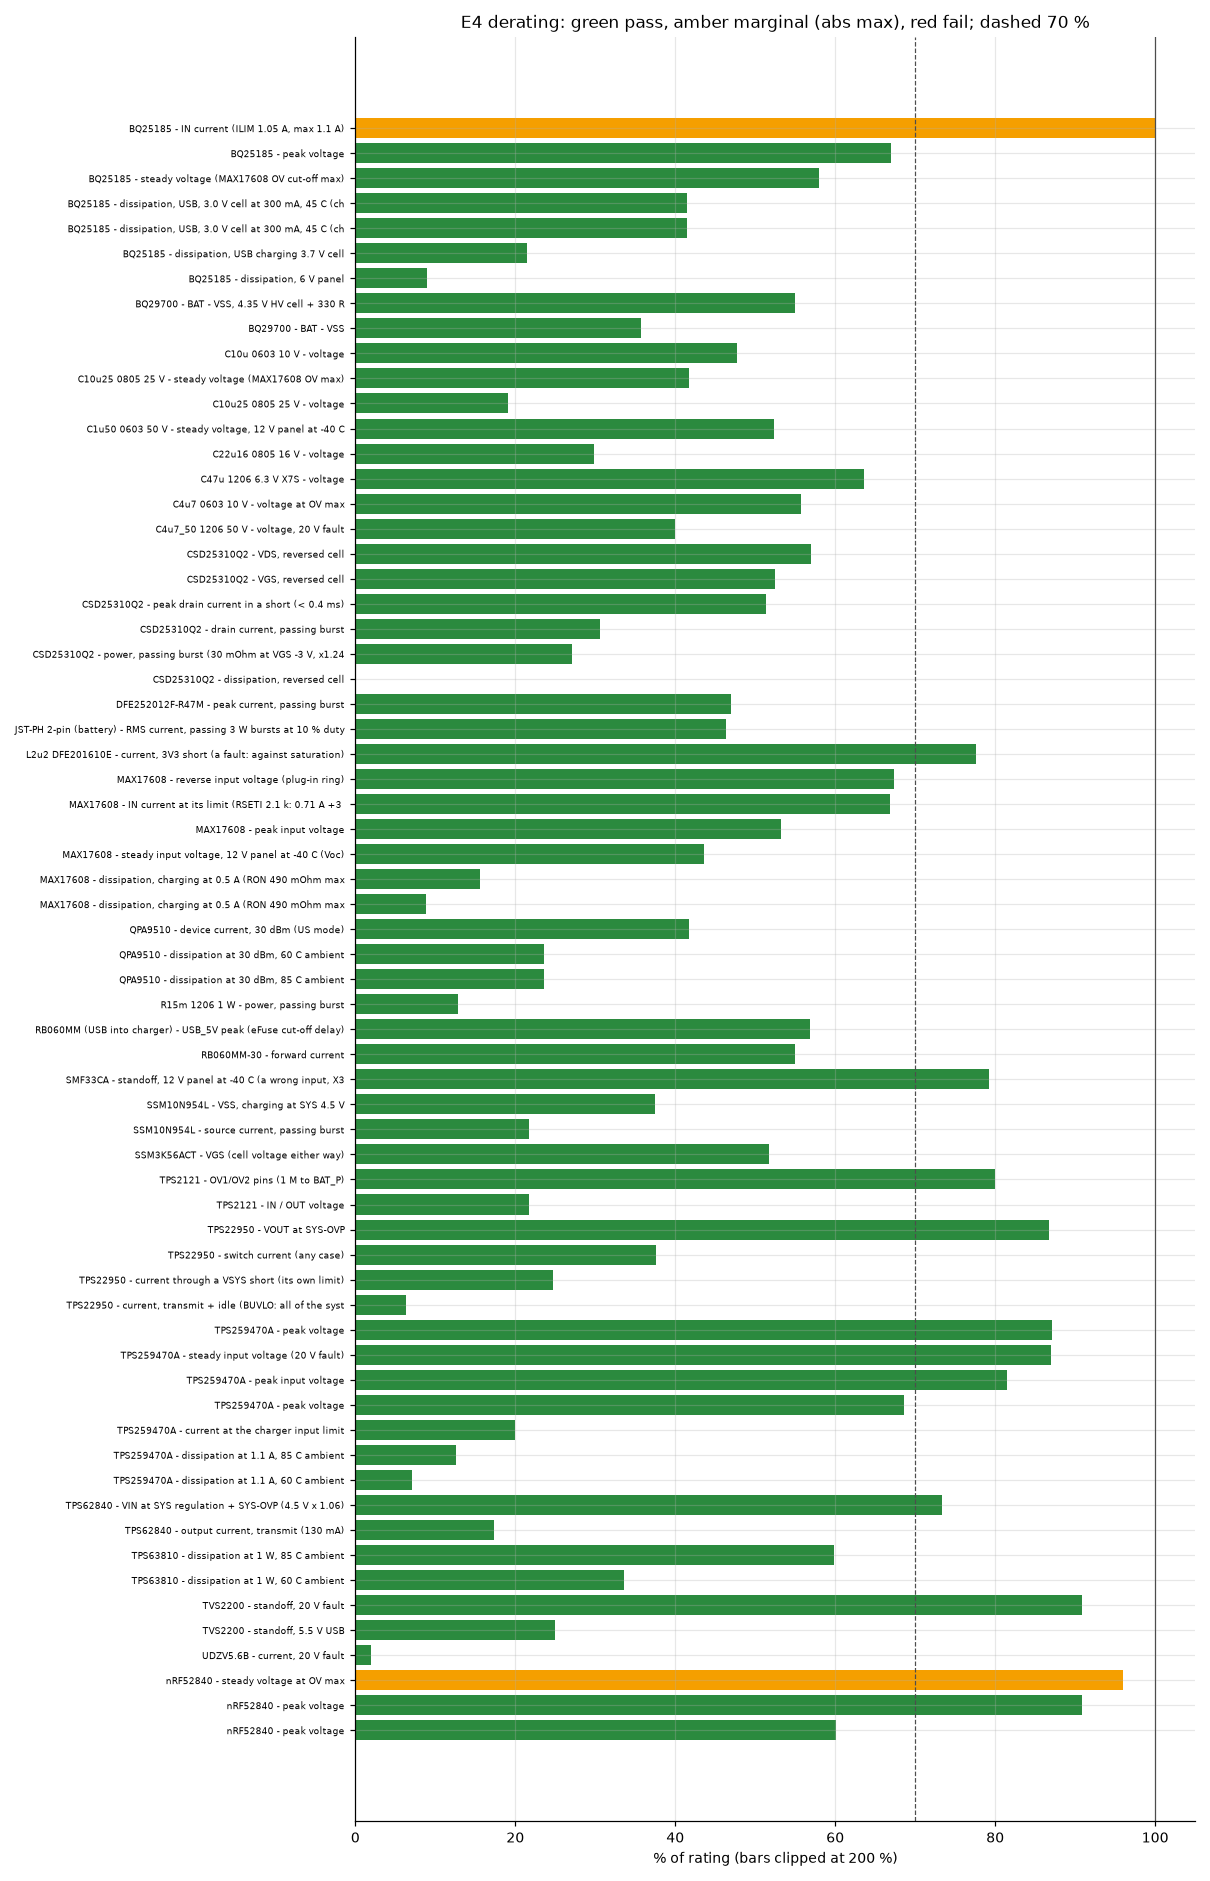
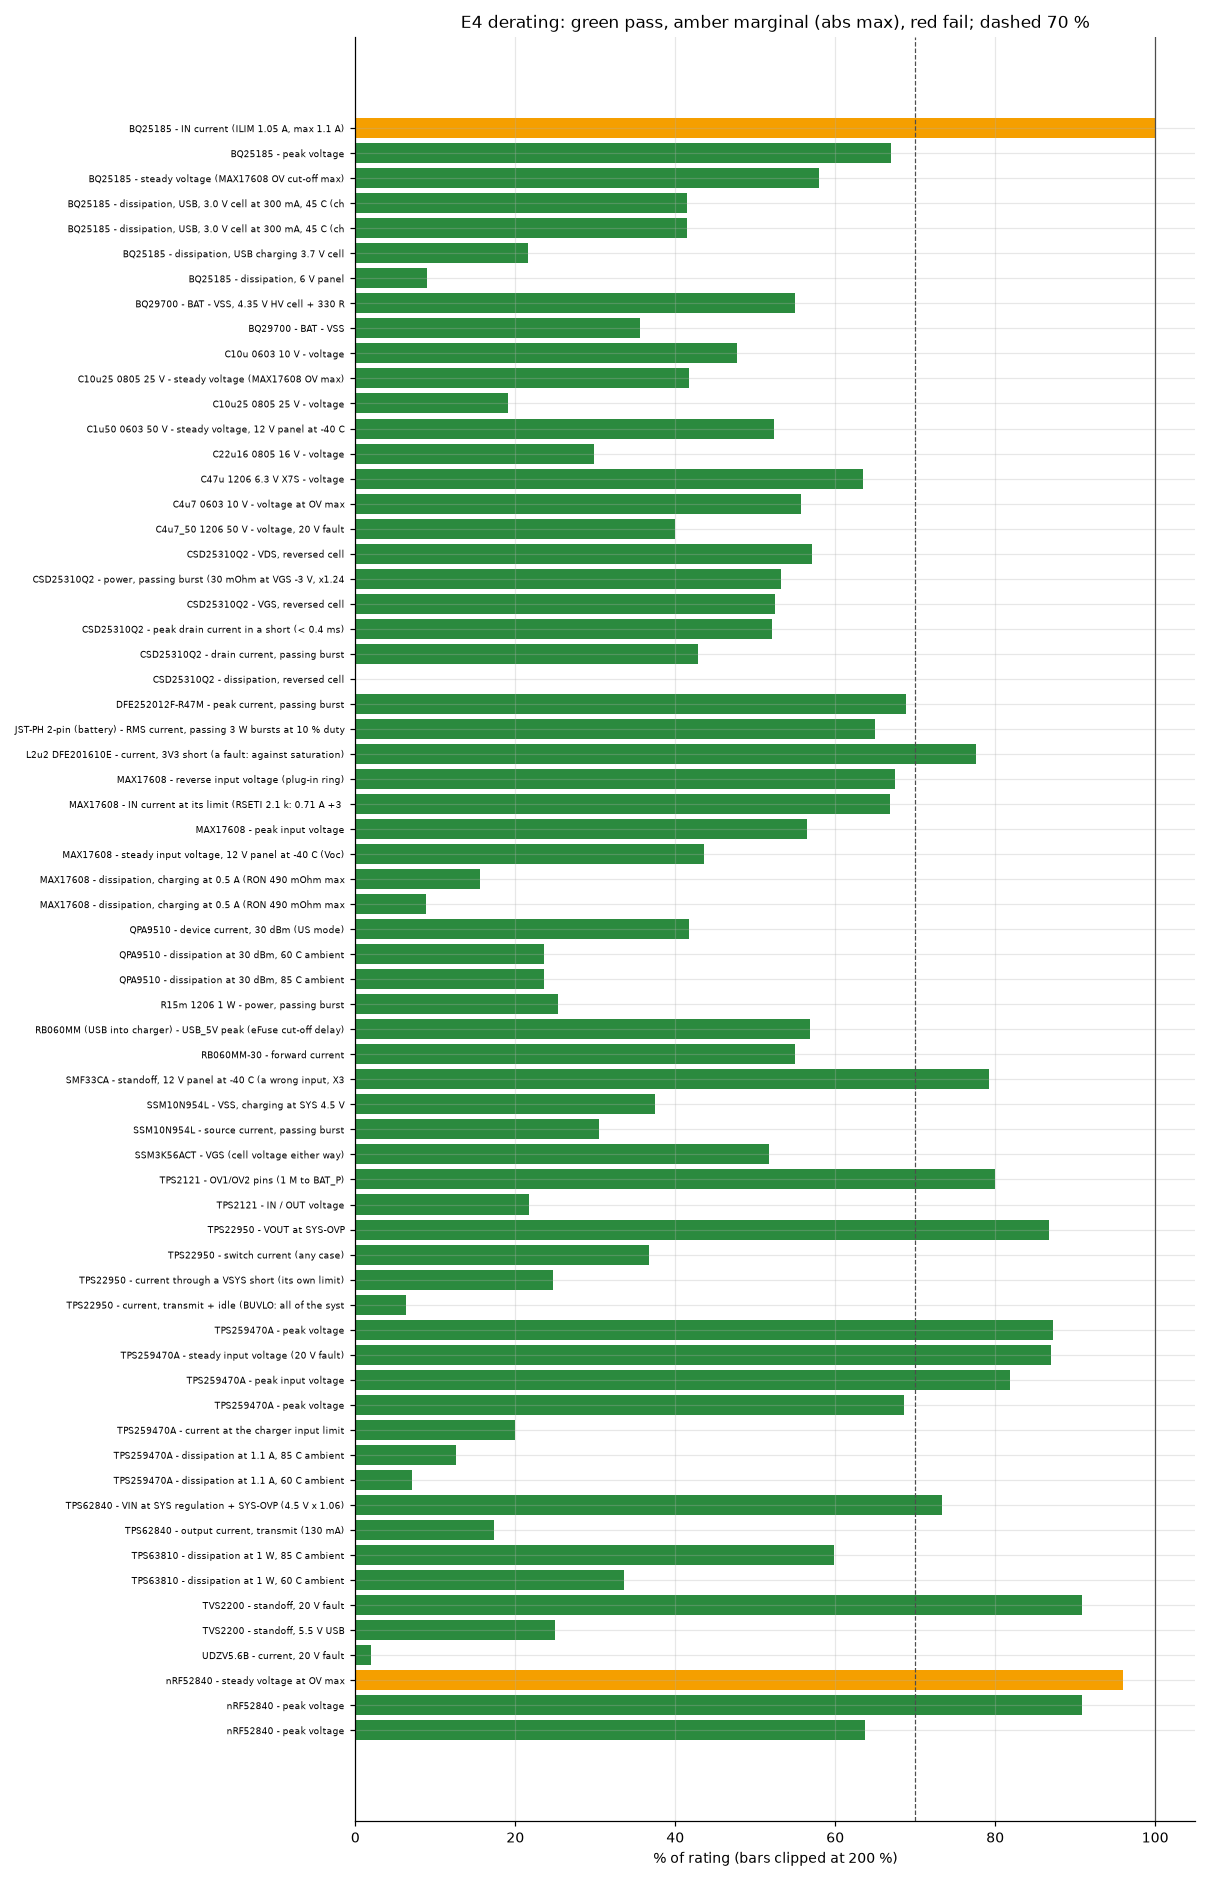
mesh-radio: solar and derating on the re-routed board; TESTS.md and sim/README with the 5 Nov results
Claude-Session: https://claude.ai/code/session_015TBB2ThqxHSgA8MkFosmn9

diff --git a/products/mesh-radio/TESTS.md b/products/mesh-radio/TESTS.md
@@ -31,37 +31,34 @@ own results file.
 
 | Test | Why | How | v1 result | Run |
 |---|---|---|---|---|
-| Circuit check: every part has a footprint and an LCSC number, no single-pin net, every pin on its footprint | Every part can be ordered and placed | `tools/kd python3 src/make.py` (its first gate) | pass, 250 parts | 20 Oct 2026, 3c6d262 |
-| Schematic netlist equals `src/circuit.py` | The drawing is the circuit | `tools/kd python3 src/sch.py` | equal | 20 Oct 2026, 3c6d262 |
-| KiCad ERC | No wiring mistakes in the drawing | `tools/kd python3 src/sch.py` (writes `schematic/erc.json`) | 0 errors, 0 warnings | 19 Oct 2026 |
-| KiCad DRC: 0 errors, 0 warnings, 0 unconnected | The fab can make it | `tools/kd python3 src/make.py` | **pending**: routing not finished | — |
-| Copper nets equal the circuit, pad for pad | The copper is the schematic | `tools/kd python3 src/make.py` | **pending**: routing not finished | — |
-| BOM and CPL list exactly the 243 assembled parts | Assembly gets what the board needs | `tools/kd python3 src/make.py` | **pending**: needs the routed board | — |
+| Circuit check: every part has a footprint and an LCSC number, no single-pin net, every pin on its footprint | Every part can be ordered and placed | `tools/kd python3 src/make.py` (its first gate) | pass, 257 parts | 5 Nov 2026, 260f321 |
+| Schematic netlist equals `src/circuit.py` | The drawing is the circuit | `tools/kd python3 src/sch.py` | equal | 5 Nov 2026, cd01a5d |
+| KiCad ERC | No wiring mistakes in the drawing | `tools/kd python3 src/sch.py` (writes `schematic/erc.json`) | 0 violations | 5 Nov 2026, cd01a5d |
+| KiCad DRC: 0 errors, 0 warnings, 0 unconnected | The fab can make it | `tools/kd python3 src/make.py` | pass: 0 / 0 / 0 (re-routed board) | 5 Nov 2026, 260f321 |
+| Copper nets equal the circuit, pad for pad | The copper is the schematic | `tools/kd python3 src/make.py` | pass, 792 pads | 5 Nov 2026, 260f321 |
+| BOM and CPL list exactly the 251 assembled parts | Assembly gets what the board needs | `tools/kd python3 src/make.py` | pass: 251 parts, 133 BOM lines, 18 Gerber files | 5 Nov 2026, 260f321 |
 | Committed fab files equal the build (CI) | Someone orders from them | CI job | **pending**: no CI job for this board yet (`.github/workflows/ci.yml` builds only Ridge 3 Lite) | — |
 | Meshtastic variant builds | The board has firmware | `pio run -e offgrid_mesh_radio_v1` (steps in `firmware/README.md`) | pass on Meshtastic v2.7.26, with and without the core patch; flash 90.0 %, RAM 41.1 % | 19 Oct 2026 |
 | Bootloader builds | Drag-and-drop UF2 flashing | `make BOARD=offgrid_mesh_radio_v1 all` (Adafruit_nRF52_Bootloader 0.11.0) | pass | 19 Oct 2026 |
 | Part audit: maker, stock, lifecycle | NDAA sourcing; parts can be bought | by hand, DigiKey and LCSC/JLC (`docs/part-audit.md`) | 129 assembled lines: every maker from the US, Japan, Taiwan, Korea, Norway or Germany; no part last-time-buy; lines short at DigiKey have a non-Chinese second source named, except the 8.1 nH choke (not sold at DigiKey: Coilcraft direct); lines short at LCSC/JLC are bought at DigiKey and sent to JLC. Country of origin not yet recorded. | 19 Oct 2026 |
 
-The schematic was last drawn before one part number changed: it still shows
-the old NTC (NCP15XH103F03RC); `src/parts.py` now has NCU15XH103F60RC. The
-nets are the same. Re-run `src/sch.py` to refresh it.
 
 ## Simulations (run by hand, recorded here)
 
 ### Power path (`sim/README.md`)
 
-Ran on 19 Oct 2026 on the circuit as it is now (e83b9c0 / d58b422). The
-copper's resistance and inductance are estimates (`TRACE_*` in
-`sim/board.py`): **re-run with values from the routed board**.
+Ran on 5 Nov 2026 on the re-routed board's copper: `sim/extract.py` reads
+each path's resistance and inductance off `mesh-radio.kicad_pcb` (since
+5 Nov counting the power nets' pours), copied into `sim/board.py`.
 
 | Simulation | Checks | How | v1 result |
 |---|---|---|---|
-| Hot plug and over-voltage (X3) | USB, solar and drone inputs: 5 V, 20 V faults, a 5 → 20 V step, 6 V and 12 V panels, reversed panel and drone supply | `tools/kd python3 sim/hotplug/run.py` | **PASS** at every temperature. USB from a 5.5 V source: MARGINAL by design (the board stays off; the cut-off keeps the nRF52840 safe). USB turn-on at 85 °C with worst zener leakage: MARGINAL (bench). |
-| Battery plugged in backwards (X1) | A reversed cell, with and without USB; a right-way cell for reference | `tools/kd python3 sim/reverse/run.py` | **PASS** in all six cases, −40 to 85 °C (20 Oct, with the 4.7 V gate clamp on the polarity-check FET). The live-pad sequence still draws 20–21 A for 0.2 ms until the protector trips, inside the parts' pulse ratings (see below). |
-| Short circuits (X2, X5) | Shorts on 3V3, the header's 3V3, VSYS, VPA, PA_IN and the cell; the protector's trip time | `tools/kd python3 sim/shorts/run.py` | **PASS** on every rail. Cell terminals shorted: MARGINAL. The protector trips in about 0.3 ms; whether the board restarts on the cell alone is a bench test. |
-| Transmit bursts from a worn cell (P2, X4) | 1 to 3 W bursts from fresh, mid and worn cells, at every temperature; USB with no cell | `tools/kd python3 sim/burst/run.py` | **PASS** at the levels the firmware cap allows. 3 W from a fresh cell at −20 to 85 °C (2 W at −40 °C). Worn cell: 1 W at 25 °C and up, none at 0 °C and below. USB only, no cell: 1 W passes. The highest passing level is the firmware's cap table. |
-| Solar charging (P5, P7) | A 6 V panel charges the cell inside 0–45 °C, and nothing flows outside it | `tools/kd python3 sim/solar/run.py` | **PASS** at every temperature. Harvest 56–76 % of the panel's maximum at full sun. |
-| Derating (E4) | Every part at no more than 70 % of its rating | `tools/kd python3 sim/derating/run.py` (runs last) | 81 rows: **0 FAIL** (20 Oct), **11 MARGINAL**: mostly the 3 W path the owner chose (amplifier at 2.3 of 2.4 A, buck-boost, power mux), the charger's input limit, and the nRF52840's USB pin at 96 % of its maximum. |
+| Hot plug and over-voltage (X3) | USB, solar and drone inputs: 5 V, 20 V faults, a 5 → 20 V step, 6 V and 12 V panels, reversed panel and drone supply | `tools/kd python3 sim/hotplug/run.py` | **PASS** at every temperature (unchanged; peaks within 0.1 V of 3 Nov). USB from a 5.5 V source: MARGINAL by design |
+| Battery plugged in backwards (X1) | A reversed cell, with and without USB; a right-way cell for reference | `tools/kd python3 sim/reverse/run.py` | **PASS** in all six cases, −40 to 85 °C |
+| Short circuits (X2, X5) | Shorts on 3V3, the header's 3V3, VSYS, VPA, PA_IN and the cell; the protector's trip | `tools/kd python3 sim/shorts/run.py` | **PASS** on every rail, VSYS and PA_IN included (3 Nov: MARGINAL at 0–85 °C). BAT_P shorts MARGINAL: the protector cuts the cell; restart is a bench test. Protector over-current trip 4.6–6.6 A at 25 °C (3 Nov: 2.4–3.3 A, its sense loop's copper now 0.4 mΩ, was 18.1) |
+| Transmit bursts (P2, X4) | 1 to 3 W from fresh, mid and worn cells, every temperature; USB cases; 85 °C hot case | `tools/kd python3 sim/burst/run.py` | 3 W from a fresh cell **PASS** at 0 to 85 °C (3 Nov: capped at 2.5 W); mid cell 3 W at 25–60 °C (was 2 W); worn cell 2.5 W at 25–85 °C (4.2 V). USB + weak cell with PA_SRC_SYS: **PASS** (was FAIL). 85 °C hot case 2.5 W: **PASS** (was FAIL). The highest passing level per cell and ambient is the firmware's cap table (`burst/results.txt`) |
+| Solar charging (P5, P7) | A 6 V panel charges inside 0–45 °C, nothing flows outside it | `tools/kd python3 sim/solar/run.py` | **PASS** at every temperature |
+| Derating (E4) | Every part at no more than 70 % of its rating | `tools/kd python3 sim/derating/run.py` (runs last) | 81 rows: **0 FAIL**, 11 MARGINAL (9 on 3 Nov: the 3 W bursts that now pass load the mux and buck-boost to 85–89 %; the buck-boost's dissipation in a 3 W burst at 60 / 85 °C, 114 / 204 % of its rating, was already MARGINAL) |
 
 All six in order: `tools/kd sh sim/run_all.sh` (about 40 minutes on 4 cores).
 
@@ -84,44 +81,43 @@ plug pins, not the gate behind its 100 k filter.)
 
 ### Radio (`sim/rf/README.md`)
 
-`run.py` ran on 19 Oct 2026 on 6cb9185, before the LFCG-1000+ filter and the
-missing-antenna detector were added. `followup.py` (same day) checked the
-LFCG-1000+ as a swap; that swap is now in the circuit. Traces are short
-ideal 50 Ω lines: **re-run with the routed board's lengths**.
+`routed.py` and `run.py` ran on 5 Nov 2026 on the re-routed board (c28e3ef),
+with the RF lines read off it and the re-fitted Bluetooth match and harmonic
+filter values.
 
 | Simulation | Checks | How | v1 result |
 |---|---|---|---|
-| Transmit loss, amplifier to U.FL | 3 W can reach the antenna | `tools/kd python3 sim/rf/run.py` | **PASS**: 1.12 dB. 34.8–35.2 dBm at 4.0 V over part tolerances. |
-| Return loss | Every part sees a good match | same | **PASS**: worst 17.2 dB |
-| Harmonics 2f–5f (R6) | FCC limits at 30 and 35 dBm, 2.15 and 6 dBi antennas | same | **PASS**: worst margin 14.1 dB |
-| Harmonics 6f–10f (R6) | The same, higher up | `tools/kd python3 sim/rf/followup.py` | With the old LFCN-1000+: **FAIL** (−7.1 dB). With the LFCG-1000+ now fitted: **PASS**, worst margin 7.7 dB at 35 dBm / 6 dBi, 16.6 dB at 30 dBm / 2.15 dBi. The amplifier's own levels above 3f are assumed. |
-| Filter notches | Where the low-pass notches fall | `sim/rf/run.py` | MARGINAL by design: chosen for low loss; the LFCG carries the rejection |
-| Attenuator power | The 15.9 dB pad's resistors stay cool | `sim/rf/run.py`, `followup.py` | **PASS**: R41 at 36 % of its 85 °C rating at +22 dBm |
-| Receive vs a RAK4631 (R4) | Hears at least as well as a RAK | `sim/rf/run.py` | **PASS**: 4.9 dB better with the receive amp on, 2.1 dB worse in battery-saver bypass |
-| Frequency | LoRa offset between nodes; the 32 MHz Bluetooth crystal | same | LoRa **PASS** (8.6 kHz against a 31 kHz limit). Crystal MARGINAL: 42–47 ppm against Nordic's 40 ppm. |
-| Bluetooth match (R7) | The chip antenna's match over tolerance | same | **PASS** before layout (100 % yield). Re-check on the routed board. |
-| Antenna missing: amplifier (X7) | The QPA9510 survives an open U.FL | same | **PASS**: 9.1:1, inside its 10:1 rating at 3.6 V |
-| Antenna missing: antenna switch (X7) | The SKY13330 survives an open U.FL | same | **FAIL**: 34.6–50.7 V peak at 3.6 V, against 31.6 V. The missing-antenna detector and the firmware cut-off were added for this; not yet re-simulated with them. |
-| Antenna missing: inductor heating (X7) | L15 and L18 with an open U.FL, 60 °C | `sim/rf/followup.py` | L15 **PASS** at 2.7 and 3.6 V, **FAIL** at 4.0 V (129 °C against 125 °C). L18 **PASS**. |
-| Missing-antenna detector | A missing antenna reads clearly above a poor one | `tools/kd python3 sim/rf/coupler.py` | 6.7 dB of contrast at 30 dBm, 7.5 dB at 35 dBm (thresholds 0.35 / 0.73 V). A first-order estimate, not an EM model. Run 19 Oct 2026, 16821fc. |
+| Amplifier load (1c) | The QPA9510 sees Qorvo's EVB load through the routed match | `tools/kd python3 sim/rf/routed.py` then `sim/rf/run.py` | **PASS**: 0.20 dB mismatch (3 Nov board: FAIL, 1.23 dB) |
+| Transmit loss, amplifier to U.FL | 3 W can reach the antenna | same | **PASS**: 1.22 dB. Over tolerance MARGINAL (18 % of boards ≤ 1.3 dB, all ≤ 2.0 dB, 3.0–3.2 W): the assumed LFCG and switch loss spreads |
+| Return loss | Every part sees a good match | same | **PASS**: worst 16.3 dB |
+| Harmonics 2f–5f (R6) | FCC limits at 30 and 35 dBm, 2.15 and 6 dBi antennas | same | **PASS**: worst margin 21.7 dB at 35 dBm / 6 dBi (3 Nov: 11.6), 18.4 dB over tolerance; worst of 108 re-layouts 8.7 dB |
+| Harmonics 6f–10f (R6) | The same, higher up | same | **PASS**: 20.4 dB at 6f (the amplifier's own levels there are assumed) |
+| Filter notches | Where the low-pass notches fall | same | MARGINAL by design: 1.42 / 2.44 GHz (values re-fitted 5 Nov); the LFCG carries the rejection |
+| Attenuator power | The 15.9 dB pad's resistors stay cool | same | **PASS**: worst resistor 41 % of its 85 °C rating at +22 dBm |
+| Receive vs a RAK4631 (R4) | Hears at least as well as a RAK | same | **PASS**: 4.9 dB better with the receive amp on, 2.1 dB worse in bypass |
+| Frequency | LoRa offset between nodes; the 32 MHz Bluetooth crystal | same | LoRa **PASS** (8.6 kHz against 31 kHz). Crystal MARGINAL: 42–47 ppm against Nordic's 40 ppm |
+| Bluetooth match (R7) | The chip antenna's match over tolerance, routed lines | same | **PASS**: 16.4 dB nominal, 9.6 dB worst, 100 % yield (values re-fitted 5 Nov; 3 Nov: FAIL, 5.7 dB). Antenna = Johanson EVB model, not an EM model of this board |
+| Antenna missing: amplifier (X7) | The QPA9510 survives an open U.FL | same | **PASS**: 9.0:1, inside its 10:1 rating at 3.6 V (3 Nov: FAIL 11.2:1) |
+| Antenna missing: antenna switch (X7) | The SKY13330 survives an open U.FL | same | 2.7 V **PASS** (74 %); 3.6 V MARGINAL (98 % of +40 dBm); 4.0 V **FAIL** (109 %). The detector cut-off (0.75 ms) limits the exposure |
+| Antenna missing: inductor heating (X7) | L15 and L18 with an open U.FL, 60 °C | same (7b) | **PASS**: L15 105 °C at 4.0 V, 25 % duty, no cut-off (limit 125 °C) |
+| Missing-antenna detector (study 8) | The firmware rule tells a good antenna from a missing one | same | Rule from 30 dBm **PASS** (+1.6 dB); firmware default constants (re-fitted 5 Nov) MARGINAL (fail with ±1 dB power-model error); robust constants **PASS** from 33 dBm |
 | 50 Ω line width (M4) | RF lines are 50 Ω on this stackup | `sim/rf/coupler.py` (field solve) | 0.17 mm line with 0.25 mm gaps = 49.9 Ω; used in `src/board.py` |
 
 ### Heat (`sim/thermal/README.md`)
 
-`run.py` ran on 19 Oct 2026 (95b5e69) on a **62 × 25.4 mm, 4-layer model of
-an earlier placement**. `followup.py` (19 Oct, 8ec13da) added 6-layer board
-options. The board is now 62 mm and 6 layers. The copper is an input
-(coverage and via figures): **re-run with the routed board's copper**.
+`run.py` and `followup.py` ran on 5 Nov 2026 (bcb634f, NPROC=2) on the
+re-routed 70 × 25.4 mm, 6-layer board, its copper, vias and stackup read
+from `mesh-radio.kicad_pcb`.
 
 | Simulation | Checks | How | v1 result |
 |---|---|---|---|
-| Listening (E2) | Board temperature while receiving | `tools/kd python3 sim/thermal/run.py` | **PASS** at −40 to 60 °C. MARGINAL at 85 °C (85 °C-rated chips 1–2 °C over). |
-| Transmitting, 4-layer board as placed (E2, E3) | Amplifier case and junction in bursts and storms | same | 1 W, one message a minute at 25 °C: **PASS**. 1 W in a 60 °C box: **FAIL**. 2.5 W and 3 W: **FAIL**. Continuous transmit: **FAIL**. This is why the heat fixes were added. |
-| Transmitting, 6-layer with the heat fixes and a gap pad (E2, E3) | The highest power that passes, per ambient and duty | `tools/kd python3 sim/thermal/followup.py` | Nominal / pessimistic dBm at the antenna. 25 °C: 35 / 35 in every pattern. 45 °C, one message a minute: 35 / 33. 60 °C: 33 / 31.5 one a minute, 31.5 / 31.5 in a storm. The firmware's temperature caps come from this row. |
-| Charging heat (P7) | Charger and battery-sensor temperature | `run.py`, `followup.py` | At the old 497 mA: **FAIL** (charger throttles; its own heat trips the sensor). At 300 mA, now in the circuit: no throttling, charger junction 80 °C at 25 °C. The sensor still reads the board beside the plug, not the cell. |
-| Rating audit (E1) | Every part rated −40 to +85 °C | `run.py` (study 2) | Chips, crystals and passives **PASS**. The buttons failed then (−25 to +70 °C); they have since been changed to Alps SKRP, rated −40 °C (`docs/part-audit.md`), not re-run. JST plugs −25 °C (owner-accepted). USB-C not verified. |
-| Cold start at −40 °C | Crystals, TCXO and regulator loops start | `run.py` (study 3) | **PASS**. The 32.768 kHz crystal drifts up to −152 ppm: MARGINAL, so the firmware declares it 250 ppm. |
-| Board size | Is the length set by heat? | `run.py` (study 4) | No: 10–20 mm shorter or longer moves the hot spot by less than 2 °C |
+| Listening (E2) | Board temperature while receiving | `tools/kd python3 sim/thermal/run.py` | **PASS** at −40 to 60 °C. MARGINAL at 85 °C (85 °C-rated chips 1–2 °C over) |
+| Transmitting, as built (E2, E3) | Highest duty that passes every limit, 1 s messages, no charging | same | 1 W: 25 % at 25 °C, 50 % at 0 °C; at 60 °C none (the cell area passes 60 °C while only listening). 2.5 W: 1/60 at 0 °C, none at 25 °C. 3 W: 1/15 at −40 °C only. Unchanged from the 3 Nov board |
+| Transmitting, gap pad on a metal wall | The same with the 10 × 10 mm pad (now 4.3 mm below the amplifier) | same | 1 W: 100 % at 25 °C. 25 °C, 25 % storm at 35 dBm: amplifier case 86 °C (3 Nov: 89), cell area 72 °C (80) |
+| Highest dBm at the antenna (`followup.py`) | Nominal / pessimistic, per ambient and pattern | `tools/kd python3 sim/thermal/followup.py` | As built + gap pad: 25 °C 35/33 one a minute, 34/33 in a 25 % storm; 45 °C 33/31.5 and 31.5/30; 60 °C none (listening limit). With the paddle fixes and 2 oz outer copper: 35/35 at 25 °C in every pattern |
+| Charging heat (P7) | The cell area ≤ 45 °C while charging | `run.py` | 25 °C: 1 W one a minute **PASS**; 2.5 W one a minute cell 42 °C (3 Nov: 47); 3 W one a minute 45 °C (52) |
+| Rating audit (E1) | Every part rated −40 to +85 °C | `run.py` (study 2) | Chips, crystals, buttons and passives **PASS**. JST plugs −25 °C (owner-accepted). USB-C lower limit and every rating added since 19 Oct unverified |
+| Cold start at −40 °C | Crystals, TCXO and regulator loops start | `run.py` (study 3) | **PASS**. The 32.768 kHz crystal drifts to −152 ppm: MARGINAL, so the firmware declares 250 ppm |
 
 **What "the heat fixes" means in that model.** The amplifier's paddle joined
 solidly to the top ground pour; its nine vias copper-filled; stitching vias

diff --git a/products/mesh-radio/sim/README.md b/products/mesh-radio/sim/README.md
@@ -75,6 +75,26 @@ threshold in well under a second) and back low.  That needs the processor runnin
 board switched off and external power in, the window stays open.  A hardware cure needs a cell-
 presence signal (a 3-pin battery plug); bench-test the sequence either way.
 
+## Changed by the re-routed board (5 Nov 2026)
+
+The board was re-placed and re-routed for the findings below (R34 beside
+the protection FETs on B.Cu, power nets poured round their own copper), and
+`extract.py` now counts a net's pour. New values in `board.py`: SENSE_TRACE
+18.1 -> 0.4 mOhm, TRACE_DRONE 144 -> 36, TRACE_SYS2 237 -> 115, TRACE_CHG
+189 -> 149, TRACE_PAIN 26 -> 12, TRACE_VPA 12 -> 8, TRACE_USB 19 -> 9; worse:
+TRACE_BAT 4.4 -> 20, TRACE_MUX1 35 -> 83, TRACE_BYP 83 -> 163 mOhm (BAT_P
+runs 15 mm since the battery plug moved right for the heat).
+
+- **Protector trip back:** OCD 4.6-6.6 A at 25 C (was 2.4-3.3 A).
+- **Burst:** 3 W from a fresh cell PASS at 0-85 C (was capped 2.5 W); mid
+  cell 3 W at 25-60 C (was 2 W); USB + weak cell with PA_SRC_SYS PASS (was
+  FAIL); 85 C hot case 2.5 W PASS (was FAIL).
+- **Shorts:** VSYS and PA_IN MARGINAL -> PASS at every temperature.
+- Unchanged: hotplug, reverse, solar.  Derating 0 FAIL, 11 MARGINAL (9):
+  the now-passing 3 W bursts load the mux and buck-boost to 85-89 %.
+- shorts/run.py: a fourth, looser solver option (the worn cell at -40 C
+  stopped before the short), tried by the trip-timing runs too.
+
 ## Changed by the routed board (3 Nov 2026)
 
 Every study was re-run with the extracted parasitics (*Parasitics*; the
